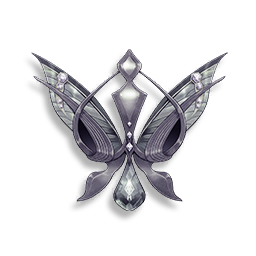
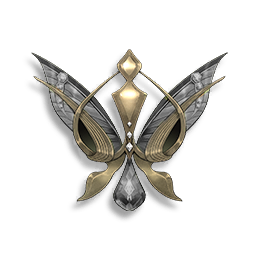
feat(资源): 更新海妖系列图片并修改图片路径逻辑
添加光、暗、水、火、雷、风海妖图片，删除海妖Prime.png
修改LeveledMod.ts中的图片路径逻辑，根据属性动态生成海妖系列图片路径

Changed region(s): [[0.125, 0.1875, 0.875, 0.8438], [0.5938, 0.3125, 0.625, 0.3438]]

diff --git a/src/data/leveled/LeveledMod.ts b/src/data/leveled/LeveledMod.ts
@@ -314,7 +314,7 @@ export class LeveledMod implements Mod {
     }
 
     get url() {
-        if (this.系列 === "海妖" && this.名称.split("·").length > 2) return `/imgs/海妖Prime.png`
+        if (this.系列 === "海妖" && this.名称.split("·").length > 2) return `/imgs/${this.属性}${this.系列}.png`
         if (this.系列 && CharBuild.elmSeries.includes(this.系列)) return `/imgs/${this.属性}${this.系列}.png`
         return `/imgs/${this.系列}系列.png`
     }
